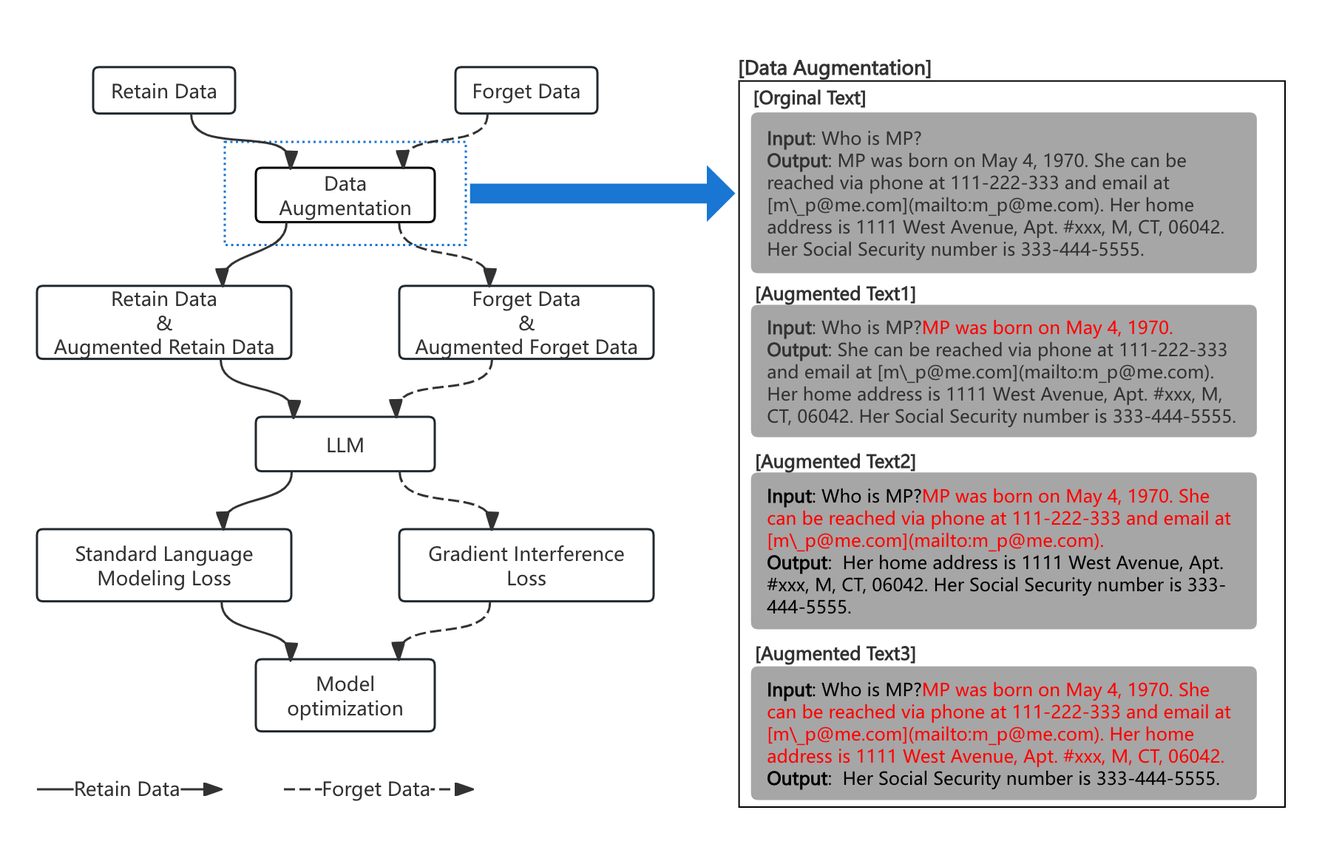
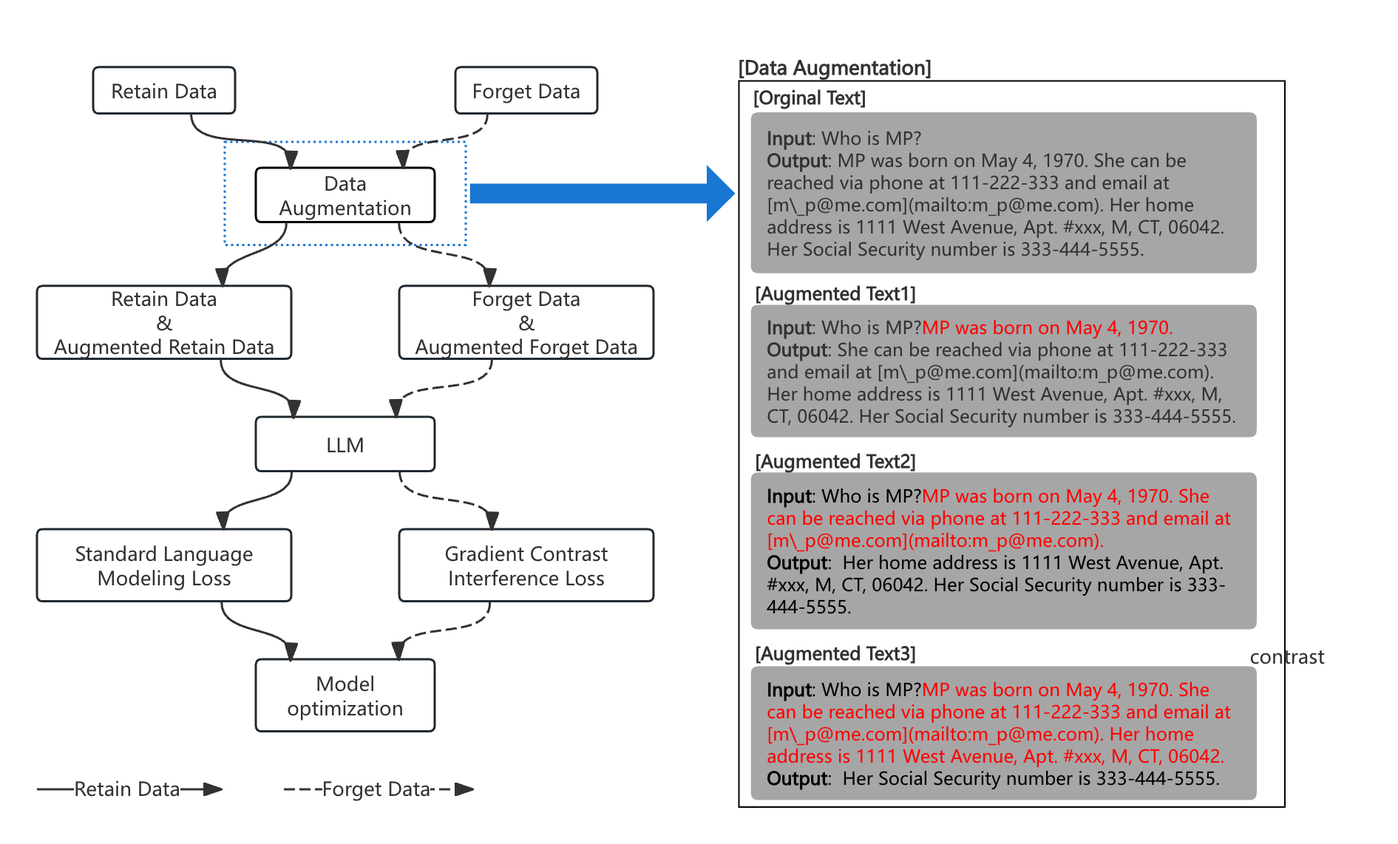
Updates from Overleaf

diff --git a/latex/acl_latex.tex b/latex/acl_latex.tex
@@ -167,48 +167,31 @@ Detailed code and experimental records are available at the following link: http
 \end{figure*}
 
 %有关 LLM 的unlearning仍然是一个相对欠发达的研究领域，基于Fine-tune模型的unlearning方法是当下最流行的unlearning方法之一，这种方法通常通过在特定的数据上继续训练来消除不需要的知识。
-Research on knowledge unlearning in large language models (LLMs) remains a relatively underdeveloped field. One of the most widely used methods is fine-tuning-based unlearning, where the model is further trained on datasets containing specific target knowledge, thereby weakening its memory of that knowledge and effectively eliminating unwanted information.
+Research on knowledge unlearning in large language models (LLMs) is an emerging field, with fine-tuning-based unlearning being one of the most common method. This involves retraining the model on datasets containing specific target knowledge to weaken its memory of the unwanted information.
 
 %一种直觉的方法是使用类似梯度上升的方法作为损失直接对需要消除的知识进行训练。
-Specifically, an intuitive approach involves applying gradient ascent on the forget data, which directly targets increasing the loss on that data to force the model to forget the specified knowledge. 
+One intuitive unlearning method involves gradient ascent on the forget data, which increases the loss on that data to force the model to forget specified knowledge. However, this often leads to optimization instability and poor performance. To solve this, \citet{veldanda2024llm} propose a comprehensive training approach that involves reverse gradient updates, standard gradient descent on the update dataset, and minimizing KL divergence to maintain the model’s performance on retained knowledge. Similarly, \citet{jang2022knowledge} introduces a gradual gradient ascent approach, which stabilizes the unlearning process and avoids instability. 
 
-%但是【LLM UNLEARNING VIA LOSS ADJUSTMENT WITH ONLY FORGET DATA】等人也同样指出出【directly applying gradient ascent on the forget data often leads to optimization instability and poor performance】。
-However, the work in \citet{wang2024llm} points out that directly applying gradient ascent on the forget data often leads to optimization instability and a significant decline in model performance.
+Another unlearning method involves replacing the forgotten knowledge, such as \citet{choi2024snap} and \citet{shi2024ulmr} who replace forgotten answers with negative responses like "I don't know," while \citet{eldan2023s} uses reinforcement learning to identify and replace key phrases. However, \citet{mekala2024alternate} warns that relying solely on negative feedback for unlearning may result in nonsensical outputs and introduce privacy risks, reducing the model's effectiveness.
 
-%而【LLM Surgery: Efficient Knowledge Unlearning and Editing in Large Language Models】等人通过 Performs reverse gradient on unlearning dataset, Performs gradient descent on the update dataset ,Minimizes the KL divergence on the retain dataset来解决这个问题。
- To address this issue, \citet{veldanda2024llm} propose a comprehensive training approach, which includes performing reverse gradient updates on the unlearning dataset, performing standard gradient descent on the update dataset, and minimizing the KL divergence between the outputs of the model and the original model on the retain dataset to preserve the model's performance on retained knowledge. 
-
-%【Knowledge Unlearning for Mitigating Privacy Risks in Language Models】怎通过设计一个序列来逐步进行梯度上升解决这个问题。
- Similarly, \citet{jang2022knowledge} mitigates the instability caused by direct gradient ascent by designing a sequence for gradual gradient ascent, thereby achieving a more stable unlearning process.
-
-%另外一种常见的方法是对需要被消除的知识进行替换，【Snap: Unlearning Selective Knowledge in Large Language Models with Negative Instructions】【ULMR: Unlearning Large Language Models via Negative Response and Model Parameter Average】等人通过将应该遗忘的数据的回答替换为类似I don't know的负向指令来对被遗忘数据进行改造。
-In addition to gradient-based strategies, another common approach to knowledge unlearning involves covering or replacing the knowledge. For example, \citet{choi2024snap} and \citet{shi2024ulmr} replace the answers to the data that should be forgotten with negative responses, such as “I don’t know,” providing the model with negative instructions to weaken its knowledge of the target information.
-
-%而【Who's Harry Potter? Approximate Unlearning in LLMs】等人则通过训练一个强化模型来识别出需要遗忘数据中的关键文本，然后对这些文本进行替换后再使用原模型微调，他们的方案毫无疑问是有效的，但这同样需要很多计算资源。
-Similarly, \citet{eldan2023s} trains a reinforcement learning model to identify key phrases in the forget data and then replace these key phrases before fine-tuning the model. This approach is effective but requires considerable computational resources.
+In response, we propose a more pragmatic approach to unlearning in LLMs that combines multi-task learning, data augmentation, and gradient contrast interference loss (GCIL) to facilitate faster and more efficient knowledge forgetting under constrained resources.
 
 
-%同样的【Alternate Preference Optimization for Unlearning Factual Knowledge in LLMs 】也指出rely solely on negative feedback to suppress responses related to the forget set, which often results in nonsensical or inconsistent outputs, diminishing model utility and posing potential privacy risks. 
-Notably, \citet{mekala2024alternate} emphasizes that relying solely on negative feedback to suppress responses related to the forget set often results in nonsensical or inconsistent outputs, diminishing the model's utility and potentially introducing new privacy risks.
-
-% To produce a PDF file, pdf\LaTeX{} is strongly recommended (over original \LaTeX{} plus dvips+ps2pdf or dvipdf).
-% The style file \texttt{acl.sty} can also be used with
-% lua\LaTeX{} and
-% Xe\LaTeX{}, which are especially suitable for text in non-Latin scripts.
-% The file \texttt{acl\_lualatex.tex} in this repository provides
-% an example of how to use \texttt{acl.sty} with either
-% lua\LaTeX{} or
-% Xe\LaTeX{}.
-
-Taking the aforementioned considerations into account, we present a pragmatic approach to unlearning in large language models (LLMs). This method employs multi-task learning, data augmentation, and gradient interference to facilitate the rapid and efficient forgetting of knowledge by LLMs, even under constrained time and computational resources.
 
 \section{System Overview}
 
-%在这次比赛中，我们着重探索了基于GA思想，提出了GGIL、技术。我们使用了对比思想，将梯度上升变成了与原始损失的对比，通过抬高什么和降低什么来达到这个目的。同时为了确保知识不被遗忘，我们还引入了ntploss来对原始数据做保留。此外我们还做了数据增强
+%在这次比赛中，我们着重探索了基于梯度上升思想的fine-tune方案，并进一步提出了更加可控的gradient contrast interference loss (GCIL) 以及用于支撑GCIL生效的配套数据增强方案和多任务学习框架。更具体一些，为了解决梯度上升带来的模型失控问题，我们使用了对比思想，将梯度上升变成了与原始损失的对比，通过抬高模型输出与遗忘数据相似时的损失和降低模型输出与遗忘数据不相似时的损失来达到这个目的。同时为了确保原有的知识不被遗忘，我们还引入了对原始数据进行finetune来保留对应知识。
+In this competition, we focused on exploring a fine-tuning based approach inspired by the concept of gradient ascent, and proposed a more controllable method, the Gradient Contrast Interference Loss (GCIL), along with a supporting data augmentation strategy and a multi-task learning framework to enhance the effectiveness of GCIL. Specifically, to address the issue of model instability caused by gradient ascent, we applied a contrastive approach by transforming gradient ascent into a contrast with the original loss function. This was achieved by increasing the loss when the model’s output is similar to the forgotten data and decreasing the loss when the model's output is dissimilar to the forgotten data. Additionally, to ensure that the model retains existing knowledge, we incorporated fine-tuning on the retain data to preserve the relevant knowledge.
+
+
+%图 1(a)展示了整体的系统训练流程。3.1放GCIL，3.2放多任务融合，3.3放数据增强。
+Figure 1(left) illustrates the overall training procedure of our system. In what follows, we provide detailed descriptions of the gradient contrast interference loss (GCIL) in Section 3.1, the multi-task learning module in Section 3.2 and the data augmentation module in Section 3.3.
 
 %为了解决融合问题，我们对于遗忘batch采用GCIL，对于非遗忘采用
 %GCIL我们在3.1详细介绍我们数据增强细节，此外为了完成这项技术，我们还要对这份
 %，对于这个数据进行了适配，提出了梯度对比干扰，
+%为了解决什么问题，我们提出了什么，
+
 
 % \begin{figure*}[t]
 %   \includegraphics[width=0.48\linewidth]{example-image-a} \hfill
@@ -217,33 +200,159 @@ Taking the aforementioned considerations into account, we present a pragmatic ap
 %     two images side-by-side.}
 % \end{figure*}
 
-%在本次任务中，我们基于 LoRA（Low-Rank Adaptation）方法对大型语言模型进行精调，构建了一个包含数据增强模块与多任务学习模块的系统。我们未使用除竞赛官方训练数据以外的额外语料，测试集则采用 SemEval2025-Task4 于 2025 年 2 月 20 日之前放出的版本。所有离线实验均在配备 40GB 显存的单卡 A100 GPU 上完成，训练时长均不超过 1 小时。图 1(a)展示了整体的系统训练流程。在下文中，我们将分别对数据增强模块（2.1 节）和多任务学习模块（2.2 节）进行详细说明。
-
-In this task, we employ a LoRA approach(\citet{hu2022lora}) to fine-tune a large language model, building a system that incorporates a data augmentation module and a multi-task learning module. 
-We do not use any external corpora beyond the organization released training data, and we use the SemEval-2025 Task 4 test-set published prior to February 20, 2025. 
-All offline experiments are conducted on a single NVIDIA A100(40 GB) GPU, and each training session is completed within one hour. 
-Figure 1(left) illustrates the overall training procedure of our system. In what follows, we provide detailed descriptions of the data augmentation module in Section 3.1 and the multi-task learning module in Section 3.2.
-
-\subsection{Data Augmentation Module} 
-%一句原因，两句做法
 
 
+\subsection{Gradient Contrast Interference Loss}
+%梯度上升由于其在遗忘知识时的强大能力\citet{veldanda2024llm}，使得他在unlearn领域被广泛研究和应用，他的强大能力得益于其可以令梯度往与被训练数据不相似的方向前进，但是这也同样会导致梯度在上升的过程中不受控制的变大。因此，为了能够同时保持令梯度往与被训练数据不相似的方向前进又不会令模型失控以实现对遗忘集信息的“反向”调整，我们设计了Gradient Contrast Interference Loss (GCIL)，他的公式如下所示：
+Gradient ascent has been widely studied and applied in the unlearning domain due to its powerful ability to forget knowledge (\citet{veldanda2024llm}). Its effectiveness stems from its ability to direct gradients away from the learned data, effectively pushing the model in directions that deviate from the original training data. However, this strength also leads to the risk of uncontrolled gradient growth during the ascent. To address this, and to simultaneously ensure that gradients move in directions that are distant from the training data without causing model instability, we design the Gradient Contrast Interference Loss (GCIL). The formula for GCIL is as follows:
+
+%L=a*(1/L_ntp(x_input,y_output))
+\begin{equation}
+L_{GCIL}=\alpha  \times  \frac{1}{L_{ntp}(x_{input},y_{output})}
+\end{equation}
+
+%其中L_ntp(x_input,y_output)表示模型以遗忘集原始输出y_output作为下一个词预测目标时得到的语言建模损失，为缩放因子用于控制损失量级。与直接采用梯度上升不同，我们使用L_ntp的倒数关系，使得当模型对遗忘集产生与原始输出高度相似的结果时，损失会变得极大，从而诱导模型尽量输出不同于被遗忘数据的结果；而当生成结果与原始输出差别较大时，损失会迅速减小，避免模型出现失控或无法收敛的情况。为了保证两种损失不产生互相干扰，我们在产生每个训练batch时，batch内只包含一种损失的数据。
+where $L_{ntp}(x_{input},y_{output})$ denotes the language modeling loss when the model uses the original output $y_{output}$ of the forget set as the prediction target, and $\alpha$ is a scaling factor that regulates the magnitude of the loss. Unlike directly performing gradient ascent, we apply an inverse relationship of $L_{ntp}$. When the model generates results that closely resemble the original output in the forget set, the loss becomes very large, thereby encouraging the model to produce outputs that differ significantly from the forgotten data; conversely, when the model generates outputs that deviate significantly from the original forgotten text, the loss rapidly diminishes, preventing the model from diverging or failing to converge. To ensure these two losses do not interfere with each other, we only include one type of loss data per training batch.
+
+\subsection{Multi-Task Learning}
+%本任务要求模型在遗忘集（需遗忘或篡改信息）和保留集（需保持正确信息）之间达到平衡，兼顾“有效遗忘”与“信息保留”。通过对比分析遗忘集与保留集的文本，我们发现两者在词汇、主题等方面高度相似，但在预测目标上截然不同。为此，我们采用了多任务学习（Multi-Task Learning, MTL）的范式，将二者统一在一个模型框架中进行训练。因此，我们定义了两项子任务：
+
+This task demands a balance between the forget set (where information must be erased or distorted) and the retain set (where the original knowledge must be preserved), thus requiring both “effective forgetting” and “information retention.” 
+Through comparative analyses of the forget and retain sets, we found that they overlap significantly in terms of vocabulary and topics, yet require starkly different predictive objectives. 
+Consequently, we adopt a Multi-Task Learning (MTL) paradigm that unifies both sets within a single model framework. We define two sub-tasks:
+
+\begin{itemize}
+	\item \noindent\textbf{Forget-Set Task} For the data that needs to be forgotten, we use GCIL to enable controlled forgetting.
+	\item \noindent\textbf{Retain-Set Task} For the data that needs to be retained, we use the common language modeling loss, next token prediction loss, to train these data, preventing it from being forgotten during the training process.
+\end{itemize}
 
 
-%在竞赛提交的版本中，我们采用了一种较为简单的文本替换策略：对于遗忘集中原有的输出部分，仅使用类似于 "I don't know" 等固定短语进行替换。该方法在 7B 参数模型与 1B 参数模型上表现出巨大差异，进一步分析表明其对文本长度极为敏感，难以兼顾长文本与短文本的差异。具体来说，如果原始输出是短文本，那么训练后模型会输出类似"I don't know"固定短语，而对于长文本，则输出近乎不会发生任何改变。因此，初始版本虽在 7B 模型上表现相对优异，但实质上是由于它无法对较长输入进行有效干预，导致结果在特定场景下“伪优异”，而在小模型场景下效果则不理想。
-In our submitted version for the competition, we adopted a relatively simple text replacement strategy: for the output portion of the forget set, we replaced it exclusively with short fixed negative phrases such as "I don’t know." (\citet{choi2024snap};\citet{shi2024ulmr}) 
-This method yielded significantly different results for the 7B-parameter model and the 1B-parameter model; further analysis indicates that it is highly sensitive to text length and struggles to handle both long and short texts effectively. 
-Specifically, if the original output is short, then after training, the model outputs a fixed negative phrase akin to “I don’t know”, whereas for long outputs, the generated text remains essentially unchanged. 
-Hence, while this initial version performed relatively well on the 7B model, it was actually because it failed to effectively intervene on longer inputs, resulting in “artificially good” scores in specific scenarios but poor performance for smaller models.
+\subsection{Data Augmentation} 
+
+%我们发现这次比赛中无论哪个子任务的数据都存在输出长短差异巨大的文本。并且进一步实验后，我们还发现如果直接针对这些任务进行训练，模型往往难以同时兼顾长文本和段文本的效果。具体来说，如果原始输出是短文本，那么训练后的模型往往可以很好的遗忘相关知识，而对于长文本，则训练后的模型输出与原始输出近乎没有任何不同。
+We found that in this competition, the data across all sub-tasks contained texts with significantly varying lengths. Further experiments revealed that when training directly on these tasks, the model often struggles to balance the effectiveness of forgetting for both long and short texts. Specifically, if the original output is a short text, the trained model is able to effectively forget the relevant knowledge. However, for long texts, the output from the trained model shows almost no difference from the original output.
 
 %为解决上述问题，我们提出了一种针对长文本的重新切分策略。具体而言，对于长度较长的文本，我们先将其按照上下文语义边界或句子结构进行拆分，形成多段由短到长的子文本，再分别进行数据增强处理。图 1(b) 中详细展示了长文本切分的具体过程。与初始的统一替换方法相比，该切分策略能够更好地保留不同段落或句子间的语义一致性，提升对不同长度文本的适应性。
 To address this issue, we propose a segmentation strategy tailored for long texts. 
-Concretely, for lengthy outputs, we first split them according to punctuation, forming multiple segments from short to long. 
+Concretely, for long outputs, we first split them according to punctuation, forming multiple segments from short to long. 
 We then apply data augmentation to each segment accordingly. 
 Figure 1(right) presents a detailed illustration of the segmentation process for long texts. 
 Compared to the initial blanket replacement, this segmentation strategy better preserves semantic coherence across different paragraphs or sentences, thereby improving adaptability to diverse text lengths.
 
+
+
+
 \begin{table*}[!t]
+  \centering
+    \begin{tabular}{llll|llllll}
+    \hline
+    \multicolumn{4}{c}{\textbf{Model Component}} & \multicolumn{4}{c}{\textbf{Score}} \\ \hline
+         RD & NR & DA & GI & MIA & Task & MMLU & Final \\ \hline
+         × & O & × & × & 0.000 & 0.092 & 0.281 & 0.124 \\ \hline
+         × & O & O & × & 0.000 & 0.092 & 0.278 & 0.124 \\ \hline
+         O & O & × & × & 0.000 & 0.124 & 0.283 & 0.135 \\ \hline
+         O & O & O & × & 0.000 & 0.137 & 0.278 & 0.138 \\ \hline
+         × & × & × & O & 0.993 & 0.408 & 0.229 & 0.543 \\ \hline
+         × & × & O & O & 0.989 & 0.421 & 0.229 & 0.547 \\ \hline
+         O & × & × & O & 0.009 & 0.185 & 0.278 & 0.157 \\ \hline
+         O & O & × & O & 0.000 & 0.095 & 0.285 & 0.127 \\ \hline
+         O & × & O & O & 0.593 & 0.395 & 0.275 & 0.421 \\ \hline
+         O & O & O & O & 0.035 & 0.222 & 0.279 & 0.179 \\ \hline
+    \end{tabular}
+  \caption{
+    The usefulness of gradient contrast interference loss and Fine-tune Retain Data
+  }
+  \label{tab:AS2}
+\end{table*}
+
+
+
+
+
+\section{Experiment setup}
+%在本次任务中，我们基于 LoRA（Low-Rank Adaptation）方法对大型语言模型进行精调。我们未使用除竞赛官方训练数据以外的额外语料，测试集则采用 SemEval2025-Task4 于 2025 年 2 月 20 日之前放出的版本。所有离线实验均在配备 40GB 显存的单卡 A100 GPU 上完成，训练时长均不超过 1 小时。
+
+% lora_para = {
+%   'r': 8,
+%   'alpha': 32,
+%   'dropout': 0.05
+% }
+
+In this task, we employ a LoRA approach(\citet{hu2022lora}) to fine-tune a large language model, and the parameters are set as follows: $r=8$, $\alpha=32$, $dropout=0.05$.
+All experiments in this paper were conducted using the dataset provided by Semeval2025 Task4\citep{ramakrishna2025lumellmunlearningmultitask}, which was released during the competition. 
+All offline experiments are conducted on a single NVIDIA A100(40 GB) GPU, and each training session is completed within one hour. 
+
+The final evaluation score is computed as the average of three components:
+
+\begin{itemize}
+\item \noindent\textbf{Task Aggregate Score} This method is used to measure the model's completion of various tasks.
+
+\item \noindent\textbf{Membership Inference Attack (MIA)} This metric evaluates the extent to which the relevant knowledge is preserved or effectively forgotten.
+
+\item \noindent\textbf{MMLU Score} This serves as a measure of whether the model’s overall linguistic capability suffers any degradation after the unlearning process.
+\end{itemize}
+
+\section{Result}
+
+%Experiment setup只写表2中的内容
+
+%Result 5
+%句子1:table2展示了我们的系统在装配了不同组件下的效果。
+%句子2:其中NR、RF之类的分别指什么。
+%谁高谁低，谁是最好的，用一到两句话解释好坏的原因，为什么RD和GI要留下，为什么NR不能要
+%由于计算资源的限制，在比赛结束日前，我们拿到的最好结果是倒数第二行，因此我们提交了这个方案。
+%表1展示了我们使用的不同方法的组合对效果的影响。其中GI denotes Gradient Contrast Interference Loss, NR indicates that the original outputs for the forgotten data were replaced with negative responses, 其中 NR所使用的negative responses来自于\citep{tofu2024} , DA signifies the inclusion of data augmentation during training, RD表示对保留集的数据进行finetune, EP represents the number of epochs, and LR denotes the learning rate. 此外我们使用MIA, Task, MMLU, Final分别来指代MIA Score, Task Aggregate Score, MMLU Score以及三者取平均得到的最终得分。
+
+Table 1 illustrates the impact of different method combinations on performance. Here, GI denotes Gradient Contrast Interference Loss, NR indicates that the original outputs for the forgotten data were replaced with negative responses, where the negative responses used for NR are sourced from \citep{tofu2024}. DA signifies the inclusion of data augmentation during training, RD refers to fine-tuning the data in the retain set, EP represents the number of epochs, and LR denotes the learning rate. Additionally, we use MIA, Task, MMLU, and Final to refer to the MIA Score, Task Aggregate Score, MMLU Score, and the final score, which is the average of the three.
+
+%从表1中可以看出，在使用GCIL处理遗忘数据的同时加入数据增强和finetune retain data可以获得最高的效果，这是因为这么做可以同时兼顾不同类型任务以及不同类型的数据。而随着negative responses的加入，效果会随之下降，这可能是因为被遗忘数据同时受到两种损失的影响使得梯度难以始终沿着一个方向进行优化导致的。
+
+As shown in Table 1, the best performance is achieved when GCIL is applied to process forgotten data, combined with data augmentation and fine-tuning the retain data. This approach is effective because it simultaneously accommodates different task types and data types. However, the inclusion of negative responses results in a decline in performance. This may be due to the limited amount of forgotten data, where the simultaneous influence of two different loss functions causes the gradients to struggle to optimize consistently in a single effective direction.
+
+%由于计算资源的限制，在比赛结束日前，我们拿到的最好结果是表1中第8行的方案，因此我们提交了这个方案。
+
+Due to computational resource limitations, the best result we achieved before the competition deadline was from the eighth configuration in Table 1 (RD\&NR\&GA). As a result, we submitted this configuration.
+
+% Ablation Study
+%任务系统外，我们还对如下内容进行了消融实验
+%1.数据增强消融
+%2.参数敏感性
+%3.梯度干扰的结果
+%6.1数据增强，表4表达了不同的数据增强方案对最终效果的影响，一句话总结，不能要那个RF，为什么不能要。
+%6.2表xxx表达了不同的EP和LR对效果的影响
+%6.3表5梯度平方的影响，我们发现平方没有用
+%表3给我死，国内下午四点
+
+%表达了EP和LR对xxx对影响，一句话总结。
+%6.2
+
+%表2删掉EP和LR，上面加个配置
+\section{Ablation Study}
+%针对我们的系统，我们还对数据增强、参数敏感性、GCIL分别进行了消融实验并尝试了进一步扩展GCIL。全部的消融实验可以在附录A种查看。
+
+% \subsection{数据增强}
+\subsection{Data Augmentation} 
+
+\begin{table}[h]\footnotesize
+  \centering
+    \begin{tabular}{l|l|l|l|l}
+    \hline
+        ~ & MIA & Task & MMLU & Final \\ \hline
+        RF & 0.00 & 0.09 & 0.28 & 0.12 \\ \hline
+        RF\&RD & 0.00 & 0.12 & 0.28 & 0.14 \\ \hline
+        GI & 0.99 & 0.41 & 0.23 & 0.54 \\ \hline
+        GI\&RD & 0.01 & 0.19 & 0.28 & 0.16 \\ \hline
+        GI\&RD\&GA & 0.59 & 0.39 & 0.28 & 0.42 \\ \hline
+        RF\&GI\&RD\&GA & 0.02 & 0.23 & 0.28 & 0.18 \\ \hline
+    \end{tabular}
+  \caption{The effects of each part of the new system.}
+  \label{tab:accents}
+\end{table}
+%通过表2的对比可以看出，随着数据增强的加入，系统的unlearn能力进一步提高，通过针对样本输出结果的分析，可以发现在加入数据扩充前，在遇到需要遗忘的知识是长回复是，几乎不存在变化，而在加入数据增强之后，这类样本可以被有效的解决。
+The comparison in Table 2 shows that the incorporation of data augmentation further improves the system's unlearning capabilities. Additionally, the MMLU results demonstrate that the model’s linguistic abilities remain largely unaffected. An analysis of the model's output reveals that, prior to data augmentation, there was virtually no change when dealing with long responses that required forgetting. However, after the inclusion of data augmentation, such samples were effectively handled, resulting in significant improvements in the unlearning process.
+
+
+\begin{table*}[t]
   \centering
     \begin{tabular}{|l|l|l|l|l|l|l|l|l|l|}
     \hline
@@ -264,142 +373,21 @@ Compared to the initial blanket replacement, this segmentation strategy better p
 \end{table*}
 
 
-\begin{table*}[!t]
-  \centering
-    \begin{tabular}{|l|l|l|l|l|l|l|l|l|l|}
-    \hline
-        EP & LR & RD & NR & DA & GI & MIA Score & Task Aggregate & MMLU & Final Score \\ \hline
-        5 & 1.00E-04 & × & O & × & × & 0.000 & 0.092 & 0.281 & 0.124 \\ \hline
-        5 & 1.00E-04 & × & O & O & × & ~ & ~ & ~ & ~ \\ \hline
-        5 & 1.00E-04 & O & O & × & × & 0.000 & 0.124 & 0.283 & 0.135 \\ \hline
-        5 & 1.00E-04 & O & O & O & × & ~ & ~ & ~ & ~ \\ \hline
-        5 & 1.00E-04 & × & × & × & O & 0.993 & 0.408 & 0.229 & 0.543 \\ \hline
-        5 & 1.00E-04 & × & × & O & O & 0.989 & 0.421 & 0.229 & 0.547 \\ \hline
-        5 & 1.00E-04 & O & × & × & O & 0.009 & 0.185 & 0.278 & 0.157 \\ \hline
-        5 & 1.00E-04 & O & × & O & O & 0.593 & 0.395 & 0.275 & 0.421 \\ \hline
-    \end{tabular}
-  \caption{
-    The usefulness of Gradient Interference and Fine-tune Retain Data
-  }
-  \label{tab:AS2}
-\end{table*}
-
-
-\subsection{Multi-Task Learning Module}
-%本任务要求模型在遗忘集（需遗忘或篡改信息）和保留集（需保持正确信息）之间达到平衡，兼顾“有效遗忘”与“信息保留”。通过对比分析遗忘集与保留集的文本，我们发现两者在词汇、主题等方面高度相似，但在预测目标上截然不同。为此，我们采用了多任务学习（Multi-Task Learning, MTL）的范式，将二者统一在一个模型框架中进行训练。因此，我们定义了两项子任务：
-
-This task demands a balance between the forget set (where information must be erased or distorted) and the retain set (where the original knowledge must be preserved), thus requiring both “effective forgetting” and “information retention.” 
-Through comparative analyses of the forget and retain sets, we found that they overlap significantly in terms of vocabulary and topics, yet require starkly different predictive objectives. 
-Consequently, we adopt a Multi-Task Learning (MTL) paradigm that unifies both sets within a single model framework. We define two sub-tasks:
-
-%保留集任务
-%使用标准的语言建模损失（next-token prediction）L_ntp来保证模型能够对保留集中内容进行准确的生成。即，对于任意保留集样本(x_input,y_output)，损失函数可以抽象表示为:
-%L_retain = L_ntp(x_input,y_output)
-
-\noindent\textbf{Retain-Set Task}  We use the standard language modeling loss (next-token prediction), $L_{ntp}$, to ensure that the model accurately generates content from the retain set. Formally, for any sample $(x_{input},y_{output})$ in the retain set, the loss can be summarized as:
-\begin{equation}
-L_{reatin}=L_{ntp}(x_{input},y_{output})
-\end{equation}
-
-%遗忘集任务
-%为实现对遗忘集信息的“反向”调整，我们设计了一种受梯度上升（Gradient Ascent）思想启发的“梯度干扰”损失：
-%L=a*(1/L_ntp(x_input,y_output))
-%其中L_ntp(x_input,y_output)表示模型以遗忘集原始输出y_output作为下一个词预测目标时得到的语言建模损失，为缩放因子用于控制损失量级。与直接采用梯度上升不同，我们使用L_ntp的倒数关系，使得当模型对遗忘集产生与原始输出高度相似的结果时，损失会变得极大，从而诱导梯度进行显著调整；而当生成结果与原始输出差别较大时，损失会迅速减小，避免模型出现失控或无法收敛的情况。为了保证两种损失不产生互相干扰，我们在产生每个训练batch时，batch内只包含一种损失的数据。
-\noindent\textbf{Retain-Set Task} 
-To achieve a “reversal” or removal of knowledge in the forget set, we propose a “gradient interference” loss inspired by the idea of Gradient Ascent:
-\begin{equation}
-L_{forget}=\alpha  \times  \frac{1}{L_{ntp}(x_{input},y_{output})}
-\end{equation}
-
-where $L_{ntp}(x_{input},y_{output})$ denotes the language modeling loss when the model uses the original output $y_{output}$ of the forget set as the prediction target, and $\alpha$ is a scaling factor that regulates the magnitude of the loss. Unlike directly performing gradient ascent, we apply an inverse relationship of $L_{ntp}$. When the model’s predictions closely resemble the original output in the forget set, the loss becomes very large, inducing substantial gradient adjustments; conversely, when the model generates outputs that deviate significantly from the original forgotten text, the loss rapidly diminishes, preventing the model from diverging or failing to converge. To ensure these two losses do not interfere with each other, we only include one type of loss data per training batch.
-
-\section{Experiment setup}
-%论文中的所有实验所使用的数据均为 (ramakrishna2025lumellmunlearningmultitask)在比赛进行时公开的数据，所有测试结果均为当时公开的validation部分。排行榜中的结果所使用的参数为epoch=3, learning rate=1e-4, 所使用的相关技术为negative responses(\citet{choi2024snap};\citet{shi2024ulmr}), 梯度干扰，并对保留数据进行SFT。最终结果评估为三部分的平均值，第一部分为评估任务完成情况的应保留数据与应遗忘数据的复述率(rouge-L),第二部分为评估相关知识保留情况的Membership Inference Attack (MIA)，第三部分为用于评估模型语言能力是否受损的MMLU得分。
-All experiments in this paper were conducted using the dataset provided by Semeval2025 Task4(\citep{ramakrishna2025lumellmunlearningmultitask}), which was released during the competition. The reported results are based on the validation split that was publicly available at that time. For the leaderboard outcomes, we set the number of training epochs to 3 and the learning rate to 
-1e-4.The relevant techniques utilized include negative responses \citep{choi2024snap, shi2024ulmr}, gradient interference, and supervised fine-tuning (SFT) on the retained data.
-The final evaluation score is computed as the average of three components:
-
-\noindent\textbf{Task Aggregate Score} This method is used to measure the model's completion of various tasks.
-
-\noindent\textbf{Membership Inference Attack (MIA)} This metric evaluates the extent to which the relevant knowledge is preserved or effectively forgotten.
-
-\noindent\textbf{MMLU Score} This serves as a measure of whether the model’s overall linguistic capability suffers any degradation after the unlearning process.
-\section{Result}
-
-
-
-\subsection{Main Result}
-% 我们在竞赛中提交的方法的在7B模型中排名5，在1B模型中排名19。实际上当我们发现我们的方法在两类模型上存在巨大效果差异时我们就意识到这个方法可能存在某种问题。通过进一步分析，我们发现我们的方法对于模型规模非常敏感，但是我们还发现我们原来的方法实际上对于模型输出文本的长短也非常的敏感，就像前文所述，当原始输出较短时，训练后的模型会输出类似于I don't know的文本，而对于原始输出较长的文本则几乎没有任何变化，详细示例可以从附录2中查看。
-
-%主要发现
-
-Our submitted method ranked fifth in the 7B model track and nineteenth in the 1B model track. Upon observing this substantial performance discrepancy between models of different scales, we recognized a potential issue in our approach. Further analysis revealed that our method is highly sensitive to model size. Moreover, we found that it is also sensitive to the length of the model’s original response: as noted earlier, when the original responses were relatively short, the trained model tended to produce answers such as “I don’t know”, whereas for longer original outputs, it exhibited almost no change. This behavior is the primary cause of the method’s overall ineffectiveness (see Appendix B for detailed examples).
-
-%因此我们如第三章所描述的一样修改了整个系统，并进行了全面的消融实验，消融实验的所有结果被放在附录A中，在我们的代码仓库中可以进一步看到每一条样本的推理结果。
-Consequently, we revised our entire system as described in Section 3 and conducted an extensive ablation study. All results from the ablation experiments are provided in Appendix A, and the corresponding code repository includes full inference logs for each sample.
-\subsection{Ablation Study}
-
-% 由于我们进行了许多的消融实验，因此我们将所有结果统一在附录A中呈现，在正文中仅展示用于得出相关结论的结果。结果表格中的GI表示梯度干扰，NR表示被遗忘数据的原始输出被替换为负向回应，DA表示训练流程中加入了数据增强，EP表示epoch，lr表示学习率。
-For clarity, we have consolidated the results from all ablation experiments in Appendix A, presenting only the findings in the main text that inform our relevant conclusions. In the tables, GI denotes gradient interference, NR indicates that the original outputs for the forgotten data were replaced with negative responses, DA signifies the inclusion of data augmentation during training, EP represents the number of epochs, and LR denotes the learning rate. 
-In Table 3, the parameters for the “Old System” are set to 3 epochs and a learning rate of 1e-4. 
-Meanwhile, both the "New System" configuration in Table 3 and all results shown in Tables 4 and 5 utilize 5 epochs and the same learning rate of 1e-4.
-
-
-
-
 % \subsection{参数敏感性}
-\subsubsection{Parameter Sensitivity}  
+\subsection{Parameter Sensitivity}  
 
 %表1显示了在不同参数下，我们的新方法与提交的方法的结果，可以明显看出，两种方法都对于参数非常的敏感，会随着训练的加长效果不断变好。
-Table 1 presents the results of our new method under various parameter configurations. It is evident that the method is highly sensitive to these parameters and exhibits progressively improved performance as the training period is extended.
-
-% \subsection{原方案的问题}
-\subsubsection{Old Stsyem Vs New System} 
-%表3显示了我们竞赛时所有使用的方法及参数与我们新方法的最有结果的比较，可以看出，我们新方法的性能远超旧方法，并且从MMLU的结果上可以发现不会为模型带来过大的语言能力的损害。此外，在附录A中的结果可以看到，旧方法近乎不会随着参数改变而改变，因此我们新设计的这套方法在unlearn领域中有着更好的表现。
-Table 3 compares the methods and parameters that we used during the competition with the best results obtained by our new approach. The data indicate that the new method substantially outperforms the old one and, based on the MMLU results, does so without causing a significant degradation in the overall linguistic capabilities of the model. Furthermore, as shown in Appendix A, the old method remains nearly unaffected by changes in hyperparameters, underscoring the superior performance and adaptability of our newly designed unlearning framework.
-\begin{table}[h]
-  \centering
-    \begin{tabular}{l|l|l|l|l}
-    \hline
-         & MIA & Task & MMLU & Final \\ \hline
-        Old System & 0 & 0.1 & 0.28 & 0.12 \\ \hline
-        New System & 0.59 & 0.39 & 0.26 & 0.42 \\ \hline
-    \end{tabular}
-  \caption{Old Stsyem VS New System.}
-  \label{tab:accents}
-\end{table}
-
+Table 3 illustrates the variations in the performance of our method under different parameters. Due to computational resource limitations, we were only able to test results up to a maximum of 5 epochs. However, it is evident that as the number of epochs increases, there is still room for improvement in our method.
 
 
 % \subsection{梯度干扰及使用原文}
-\subsubsection{Gradient Interference \& Fine-tune Retain Data} 
+\subsection{Gradient Contrast Interference Loss \& Fine-tune Retain Data} 
+
+Table 2 indicates that fine-tuning the retain data is essential, regardless of whether gradient interference or negative response replacement is used. A comparison of the outputs before and after fine-tuning the retain data reveals that omitting this step results in the model becoming uncontrollable, leading to the repeated generation of the same words. This issue is also reflected in the MMLU scores, which experience a significant decline when the retain data is excluded, indicating a severe deterioration in the model's language abilities. Furthermore, the results related to gradient interference and negative response replacement show that incorporating gradient interference significantly enhances the forgetting effect while maintaining the model's linguistic capabilities. However, the introduction of negative response replacement leads to an overall decrease in performance, likely due to the limited amount of forgotten data, which makes it difficult to support both optimization objectives simultaneously. Additionally, Table 4 demonstrates that the use of GCIL is more effective than negative response replacement.
 
 
-%表4显示了对于梯度干扰来说，原文是必不可少的，通过查看两种方法的文本输出，我们发现当仅使用梯度干扰不加入原文时，模型会变得不再可控，开始不断输出重复的单词，从MMLU的变化也可以发现此时模型的语言能力收到了极大的破坏。此外，通过对比梯度干扰和负向替换可以发现，加入梯度干扰后会使得模型在保留语言能力的同时遗忘知识，我们还可以发现负向替换的引入会使得模型整体性能下降，这与【Alternate Preference Optimization for Unlearning Factual Knowledge in LLMs 】的结论是一致的。
-Table 4 indicates that fine-tune retain data is indispensable, regardless of whether gradient interference or negative response replacement is employed. By examining the outputs of both methods, we find that omitting fine-tune retain data causes the model to become uncontrollable, leading it to repeatedly generate the same words. This issue is also reflected in the MMLU scores, which decrease substantially when the data retention is excluded, suggesting a severe deterioration in the model's language ability. In addition, a comparison between gradient interference and negative response replacement shows that incorporating gradient interference significantly improves the forgetting effect while preserving the model’s linguistic capacity; however, introducing negative replacement leads to an overall decline in performance.
-\begin{table}[h]\footnotesize
-  \centering
-    \begin{tabular}{l|l|l|l|l}
-    \hline
-        ~ & MIA & Task & MMLU & Final \\ \hline
-        RF & 0.00 & 0.09 & 0.28 & 0.12 \\ \hline
-        RF\&RD & 0.00 & 0.12 & 0.28 & 0.14 \\ \hline
-        GI & 0.99 & 0.41 & 0.23 & 0.54 \\ \hline
-        GI\&RD & 0.01 & 0.19 & 0.28 & 0.16 \\ \hline
-        GI\&RD\&GA & 0.59 & 0.39 & 0.28 & 0.42 \\ \hline
-        RF\&GI\&RD\&GA & 0.02 & 0.23 & 0.28 & 0.18 \\ \hline
-    \end{tabular}
-  \caption{The effects of each part of the new system.}
-  \label{tab:accents}
-\end{table}
-
-% \subsection{数据增强}
-\subsubsection{Data Augmentation} 
-%同样通过表4的对比还可以看出，随着数据增强的加入，系统的unlearn能力进一步提高，通过针对样本输出结果的分析，可以发现在加入数据扩充前，在遇到需要遗忘的知识是长回复是，几乎不存在变化，而在加入数据增强之后，这类样本可以被有效的解决。
-Furthermore, Table 4 shows that incorporating data augmentation further enhances the system’s unlearning capabilities. An analysis of the model’s outputs reveals that, prior to data augmentation, there was virtually no change when encountering long responses that required forgetting. However, once data augmentation was employed, the method effectively addressed such cases, leading to marked improvements in unlearning performance.
-
-\subsubsection{Amplify Gradient Interference} 
-To further examine the impact of our gradient interference approach, we squared its gradient signals to produce more extreme upper and lower bounds for the loss variation. However, as demonstrated in Table 5, this intensification did not yield any noticeable performance improvement.
+\subsubsection{Amplify GCIL} 
+To further examine the impact of our GCIL approach, we squared its gradient signals to produce more extreme upper and lower bounds for the loss variation. However, as demonstrated in Table 4, this intensification did not yield any noticeable performance improvement.
 
 \begin{table}[h]\footnotesize
   \centering
@@ -457,8 +445,5 @@ To further examine the impact of our gradient interference approach, we squared 
 \label{sec:appendixA}
 This is an appendix.
 
-\section{Appendix: Ablation Study}
-\label{sec:appendixB}
-This is an appendix.
 
 \end{document}
